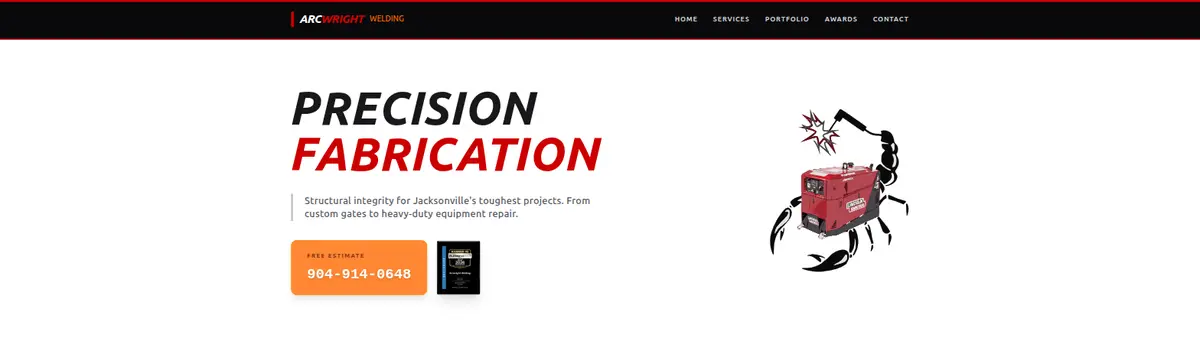
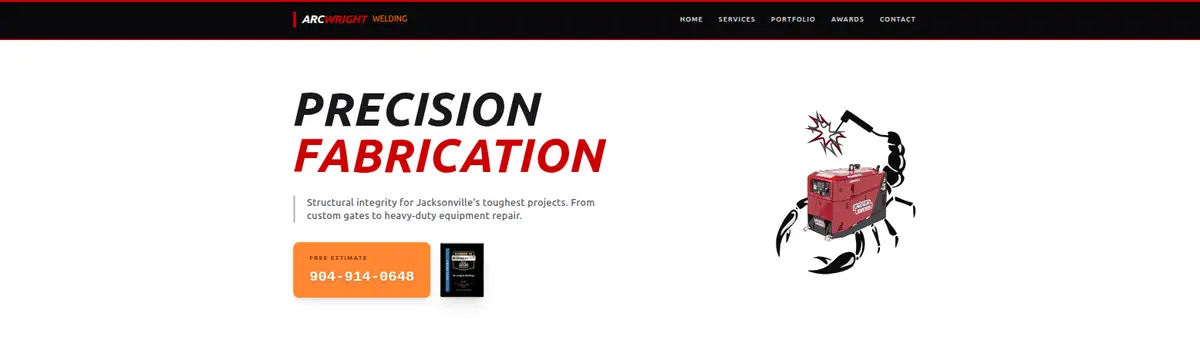
Restore pricing section; trim scrollbar from case study screenshots
Pricing is back on the page. The middle tier was rebuilt: it previously
sold Google Business Profile and Google Ads management, which is the
marketing responsibility that was deliberately dropped from Services.
It is now Maintenance & Updates, matching the service card that remains.

The portfolio screenshot had captured the browser scrollbar along its
right edge. Both images re-cropped to the same width so their content
scale stays matched, and the width/height attributes updated.

Claude-Session: https://claude.ai/code/session_015qE9yiPSBb3varnBDCAZY9

diff --git a/src/components/PricingSection.jsx b/src/components/PricingSection.jsx
@@ -1,0 +1,125 @@
+import { useState, useEffect } from 'react';
+
+const tiers = [
+  {
+    label: 'One-time',
+    title: 'Site Build',
+    cryptoPrice: '1 ETH',
+    cryptoEth: 1,
+    unit: 'flat',
+    items: [
+      'Up to 5 pages',
+      'Mobile-first design',
+      'Contact form included',
+      '2 rounds of revisions',
+      'Deployed and handed off',
+    ],
+  },
+  {
+    label: 'Monthly',
+    title: 'Maintenance & Updates',
+    cryptoPrice: '0.2 ETH',
+    cryptoEth: 0.2,
+    unit: 'per month',
+    items: [
+      'Site updates',
+      'Content changes',
+      'Performance monitoring',
+      'Dependency and security patching',
+    ],
+  },
+  {
+    label: 'Hourly',
+    title: 'IT Support',
+    cryptoPrice: '0.03 ETH',
+    cryptoEth: 0.03,
+    unit: 'per hour',
+    items: [
+      'Networking & devices',
+      'Software setup & troubleshooting',
+      'On-site or remote',
+      'Billed in 1hr minimums',
+    ],
+  },
+];
+
+function PricingSectionInner() {
+  const [mode, setMode]   = useState('crypto');
+  const [ethUsd, setEthUsd] = useState(null);
+
+  useEffect(() => {
+    fetch('https://api.coingecko.com/api/v3/simple/price?ids=ethereum&vs_currencies=usd')
+      .then(r => r.json())
+      .then(d => setEthUsd(d.ethereum.usd))
+      .catch(() => {});
+  }, []);
+
+  return (
+    <>
+      <div className="flex border border-slate-200 mb-8">
+        {['crypto', 'trade'].map((m) => (
+          <button
+            key={m}
+            onClick={() => setMode(m)}
+            className={`flex-1 py-3 text-xs font-black uppercase tracking-widest transition-colors ${
+              mode === m ? 'bg-amber-400 text-slate-900' : 'bg-white text-slate-400 hover:text-slate-600'
+            }`}
+          >
+            {m === 'crypto' ? 'Crypto' : 'Trade / Barter'}
+          </button>
+        ))}
+      </div>
+
+      {mode === 'trade' && (
+        <div className="mb-8 border border-amber-200 bg-amber-50 px-6 py-5">
+          <p className="text-sm font-black uppercase tracking-widest text-amber-700 mb-1">Trade instead of pay</p>
+          <p className="text-slate-500 text-sm leading-relaxed">
+            I built Homestead, a barter exchange, because I don't think everything needs to run through dollars.
+            If you've got goods, equipment, land work, or labor you'd rather trade than pay cash for, tell me what
+            you have and what you need - we'll work out fair terms directly.
+          </p>
+        </div>
+      )}
+
+      <div className="grid grid-cols-1 md:grid-cols-3 gap-6">
+        {tiers.map((tier) => (
+          <div key={tier.title} className="border border-slate-200 p-8 flex flex-col">
+            <span className="text-xs uppercase tracking-widest font-bold text-amber-500 mb-4 block">
+              {tier.label}
+            </span>
+            <h3 className="text-lg font-black uppercase tracking-tight text-slate-900 mb-1">
+              {tier.title}
+            </h3>
+            <div className="mb-6">
+              {mode !== 'trade' && (
+                <div className="flex items-baseline gap-2">
+                  <span className="text-4xl font-black text-slate-900 transition-all">
+                    {tier.cryptoPrice}
+                  </span>
+                  <span className="text-slate-400 text-sm">{tier.unit}</span>
+                </div>
+              )}
+              {mode === 'crypto' && ethUsd && (
+                <p className="text-slate-400 text-xs mt-1">
+                  ≈ ${(tier.cryptoEth * ethUsd).toLocaleString('en-US', { maximumFractionDigits: 0 })} USD
+                </p>
+              )}
+            </div>
+            <ul className="space-y-2">
+              {tier.items.map((item) => (
+                <li key={item} className="text-slate-500 text-sm flex items-start gap-2">
+                  <span className="text-amber-400 font-bold mt-0.5">+</span>
+                  {item}
+                </li>
+              ))}
+            </ul>
+          </div>
+        ))}
+      </div>
+    </>
+  );
+}
+
+export default function PricingSection() {
+  return <PricingSectionInner />;
+}
